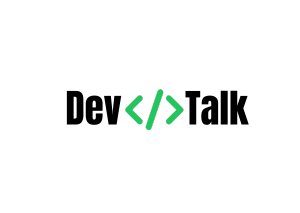
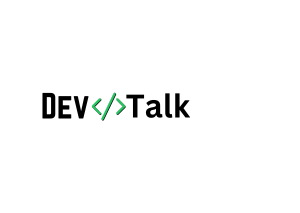
start with darkMode

Changed region(s): [[0.12, 0.4225, 0.84, 0.6197]]

diff --git a/app/globals.css b/app/globals.css
@@ -1,38 +1,69 @@
 @import "tailwindcss";
-&.dark-mode {
-  --color-grey-0: #18212f;
-  --color-grey-50: #111827;
-  --color-grey-100: #1f2937;
-  --color-grey-200: #374151;
-  --color-grey-300: #4b5563;
-  --color-grey-400: #6b7280;
-  --color-grey-500: #9ca3af;
-  --color-grey-600: #d1d5db;
-  --color-grey-700: #e5e7eb;
-  --color-grey-800: #f3f4f6;
-  --color-grey-900: #f9fafb;
 
-  --color-blue-100: #075985;
-  --color-blue-700: #e0f2fe;
-  --color-green-100: #166534;
-  --color-green-700: #dcfce7;
-  --color-yellow-100: #854d0e;
-  --color-yellow-700: #fef9c3;
-  --color-silver-100: #374151;
-  --color-silver-700: #f3f4f6;
-  --color-indigo-100: #3730a3;
-  --color-indigo-700: #e0e7ff;
+:root {
+  /* Your default theme */
+  --background: white;
+  --foreground: black;
+  transition: all 0.3s ease-in-out;
+}
 
-  --color-red-100: #fee2e2;
-  --color-red-700: #b91c1c;
-  --color-red-800: #991b1b;
+[data-theme="dark"] {
+  --background: #0a0f14; /* Dark deep green for consistency */
+  --foreground: white; /* Soft off-white for readability */
+  --color: #e5e7eb;
 
-  --backdrop-color: rgba(0, 0, 0, 0.3);
+  /* Accent Colors */
+  --primary: #22c55e; /* Green-500 */
+  --secondary: #15803d; /* Adjusted to Green-700 for better contrast */
+  --highlight: #4ade80; /* Light green for emphasis */
+  --border: #166534; /* Consistent deep green border */
 
-  --shadow-sm: 0 1px 2px rgba(0, 0, 0, 0.4);
-  --shadow-md: 0px 0.6rem 2.4rem rgba(0, 0, 0, 0.3);
-  --shadow-lg: 0 2.4rem 3.2rem rgba(0, 0, 0, 0.4);
+  /* Shadows & Effects */
+  --shadow: rgba(22, 101, 52, 0.4); /* Deeper green for shadows */
+  --glass-effect: rgba(22, 101, 52, 0.15); /* Softer glass effect */
 
-  --image-grayscale: 10%;
-  --image-opacity: 90%;
+  /* Typography */
+  --font-heading: "Poppins", sans-serif;
+  --font-body: "Inter", sans-serif;
+
+  /* Transitions */
+  transition: all 0.3s ease-in-out;
+}
+
+/* Apply styles */
+body[data-theme="dark"] {
+  background: var(--background);
+  color: var(--foreground);
+  font-family: var(--font-body);
+}
+[data-theme="dark"] .posts {
+  background: var(--background);
+  background-attachment: fixed;
+  font-family: var(--font-body);
+  color: var(--color);
+}
+[data-theme="dark"] .post-item {
+  background: linear-gradient(300deg, #0f2a1f, #0a0f14);
+  padding: 20px;
+  box-shadow: var(--glass-effect);
+
+  color: var(--foreground);
+  font-family: var(--font-body);
+  border: var(--border);
+}
+
+[data-theme="dark"] .sidebar {
+  color: var(--foreground);
+  font-family: var(--font-body);
+  border: none;
+}
+
+/* Glassmorphism Card Effect */
+[data-theme="dark"] .navbar {
+  background-color: var(--background);
+}
+[data-theme="dark"] .mobile-nav {
+  background: linear-gradient(300deg, #0f2a1f, #0a0f14);
+  color: var(--color);
+  border: none;
 }

diff --git a/app/_components/navbar.js b/app/_components/navbar.js
@@ -1,10 +1,12 @@
 "use client";
 import Link from "next/link";
-import { Search, Bell, LogOut } from "lucide-react";
+import { Search, Bell, LogOut, Moon, Sun } from "lucide-react";
 import { useEffect, useState } from "react";
+import { useTheme } from "next-themes";
 
 export default function Navbar() {
   const [token, setToken] = useState(null);
+  const { theme, setTheme } = useTheme();
 
   useEffect(() => {
     setToken(localStorage.getItem("token"));
@@ -24,30 +26,45 @@ export default function Navbar() {
   };
 
   return (
-    <header className="sticky top-0 z-50 w-full border-b border-gray-200 bg-white">
+    <header className="navbar sticky top-0 z-50 w-full">
       <div className="flex h-16 items-center px-4 md:px-6">
         <Link href="/posts">
-          <img src="/DevLight.png" width={200} />
+          <img
+            src={theme === "light" ? `/DevLight.png` : `/DevDark.png`}
+            width={200}
+          />
         </Link>
 
-        <div className="ml-auto flex items-center gap-4">
-          <div className="relative hidden md:flex items-center">
-            <Search className="absolute left-3 h-4 w-4 text-gray-400" />
-            <input
-              type="search"
-              placeholder="Search"
-              className="pl-10 pr-4 py-2 rounded-full bg-gray-100 text-sm focus:outline-none focus:ring-2 focus:ring-green-500 w-64"
-            />
-          </div>
+        <div className="ml-auto flex items-center gap-4 ">
+          {theme === "light" ? (
+            <div className="p-2 rounded-md bg-green-900/10 ">
+              <Moon
+                className="transition-all duration-500"
+                onClick={() => setTheme("dark")}
+              />
+            </div>
+          ) : (
+            <div className="p-2 rounded-md bg-green-900/10 ">
+              <Sun
+                className="transition-all duration-500"
+                onClick={() => setTheme("light")}
+              />
+            </div>
+          )}
           <Link
             href="/notifications"
-            className="relative p-2 rounded-full hover:bg-gray-100"
+            className="relative p-2 rounded-md bg-green-900/10   "
           >
             <Bell className="h-5 w-5" />
             <span className="absolute top-1 right-1 w-2 h-2 bg-green-500 rounded-full"></span>
           </Link>
           {token && (
-            <LogOut className="cursor-pointer" onClick={handleLogout} />
+            <div className="p-2 rounded-md bg-green-900/10 ">
+              <LogOut
+                className="cursor-pointer h-5 w-5 "
+                onClick={handleLogout}
+              />
+            </div>
           )}
         </div>
       </div>

diff --git a/app/_components/postItem.js b/app/_components/postItem.js
@@ -12,7 +12,7 @@ import { Badge } from "../_components/badge";
 
 export default function PostItem({ post }) {
   return (
-    <div className=" border border-gray-100 rounded-lg p-6 hover:shadow-md transition-shadow">
+    <div className="post-item border rounded-lg p-6 hover:shadow-md transition-shadow">
       <div className="flex items-start gap-3 mb-4">
         <Avatar>
           <AvatarImage src={post.user.avatarUrl} />
@@ -31,15 +31,18 @@ export default function PostItem({ post }) {
             </div>
           </div>
           <div className="flex gap-3">
-            <Edit2 className="text-green-500" />
-
-            <Delete className="text-green-500" />
+            <div>
+              <Edit2 />
+            </div>
+            <div>
+              <Delete />
+            </div>
           </div>
         </div>
       </div>
 
       <h3 className="font-semibold text-xl mb-2">{post.title}</h3>
-      <p className="text-gray-700 mb-4">{post.body}</p>
+      <p className=" mb-4">{post.body}</p>
       <div className="grid  gap-1 xl:grid-cols-2  overflow-hidden ">
         {post.postMedias.map((media) => {
           return (

diff --git a/app/layout.js b/app/layout.js
@@ -6,6 +6,7 @@ import ReduxProvider from "./_components/redux-provider";
 import QueryProvider from "./_components/query-provider";
 import PageWrapper from "./_components/page-wrapper";
 import { PostProvider } from "./_contexts/postContext";
+import { ThemeProvider } from "next-themes";
 
 const roboto = Roboto({
   subsets: ["latin"],
@@ -20,16 +21,18 @@ export const metadata = {
 
 export default function RootLayout({ children }) {
   return (
-    <html lang="en">
+    <html lang="en" suppressHydrationWarning>
       <body className={roboto.variable}>
-        <PostProvider>
-          <ReduxProvider>
-            <Navbar />
-            <QueryProvider>
-              <PageWrapper>{children}</PageWrapper>
-            </QueryProvider>
-          </ReduxProvider>
-        </PostProvider>
+        <ThemeProvider>
+          <PostProvider>
+            <ReduxProvider>
+              <Navbar />
+              <QueryProvider>
+                <PageWrapper>{children}</PageWrapper>
+              </QueryProvider>
+            </ReduxProvider>
+          </PostProvider>
+        </ThemeProvider>
       </body>
     </html>
   );

diff --git a/app/_components/sideBarPosts.js b/app/_components/sideBarPosts.js
@@ -13,7 +13,7 @@ function SideBarPosts() {
   const { activeTab, setActiveTab } = usePostContext();
 
   return (
-    <aside className="hidden md:block w-64 border-r border-gray-100 min-h-[calc(100vh-64px)] p-4 sticky top-16">
+    <aside className="sidebar hidden md:block w-64 border-r  min-h-[calc(100vh-64px)] p-4 sticky top-16">
       <nav>
         <ul className="space-y-2">
           {navigationItems.map((item) => (
@@ -21,9 +21,7 @@ function SideBarPosts() {
               <button
                 onClick={() => setActiveTab(item.id)}
                 className={`w-full flex items-center gap-3 px-4 py-3 rounded-lg transition-colors ${
-                  activeTab === item.id
-                    ? "bg-green-50 text-green-700"
-                    : "hover:bg-gray-50"
+                  activeTab === item.id && "bg-white text-green-500"
                 }`}
               >
                 {item.icon}

diff --git a/app/_components/mobilePostsNav.js b/app/_components/mobilePostsNav.js
@@ -12,14 +12,14 @@ function MobilePostsNav() {
   const { activeTab, setActiveTab } = usePostContext();
 
   return (
-    <nav className="md:hidden fixed bottom-0 left-0 right-0 bg-white border-t border-gray-100">
+    <nav className="rounded-2xl mx-2 mobile-nav md:hidden fixed bottom-0 left-0 right-0  border-t border-gray-100">
       <ul className="flex justify-around items-center h-16">
         {navigationItems.map((item) => (
           <li key={item.id}>
             <button
               onClick={() => setActiveTab(item.id)}
               className={`flex flex-col items-center gap-1 p-2 ${
-                activeTab === item.id ? "text-green-700" : "text-gray-600"
+                activeTab === item.id && "text-green-700"
               }`}
             >
               {item.icon}

diff --git a/app/login/page.js b/app/login/page.js
@@ -2,7 +2,7 @@ import LoginForm from "../_components/login-form";
 
 export default function Login() {
   return (
-    <div className="min-h-screen bg-white">
+    <div className="min-h-screen ">
       <main className="max-w-md mx-auto py-12 px-6">
         <div className="mb-8">
           <h1 className="text-3xl font-bold mb-2">Welcome back</h1>

diff --git a/app/_components/postsPageComponent.js b/app/_components/postsPageComponent.js
@@ -5,7 +5,7 @@ import PostList from "../_components/postList";
 import SideBarPosts from "../_components/sideBarPosts";
 function PostsPageComponent() {
   return (
-    <div className="min-h-screen bg-white relative flex">
+    <div className="min-h-screen relative posts flex">
       <SideBarPosts />
 
       <main className="flex-1 p-6">
